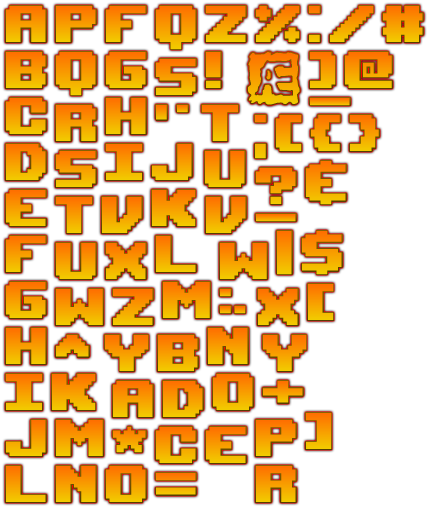
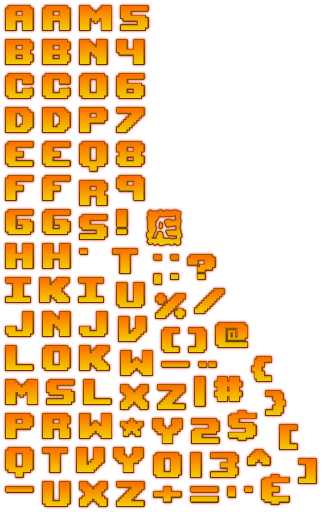
adding numbers to fonts

diff --git a/src/states/Play.js b/src/states/Play.js
@@ -11,6 +11,7 @@ class Play extends Phaser.State {
     create() {
         this.createTiles();
         this.createBoundaries();
+        this.createScoreboard();
         this.createLauncher();
         this.createStage();
         // this.startTimer();
@@ -46,6 +47,12 @@ class Play extends Phaser.State {
         // move boundary by => boundary.x += val;
     }
 
+    createScoreboard() {
+        this.score = 0;
+        this.scoreText = this.add.bitmapText(5, 11, 'upheaval', 'SCORE 000000000', 25);
+        this.scoreText.anchor.set(0, 0.5);
+    }
+
     createLauncher() {
         // polnareff
         this.polnareff = this.add.sprite(this.world.centerX - 75, CANVAS_HEIGHT - TILE_SIZE, 'polnareff', 0);
@@ -63,7 +70,6 @@ class Play extends Phaser.State {
         this.launcherWheel.anchor.set(0.5, 0.5);
         this.launcherWheel.width = 57;
         this.launcherWheel.height = 57;
-
 
         // platform
         this.launcherPlatform = this.add.sprite(this.world.centerX, CANVAS_HEIGHT, 'launcher-platform1');

diff --git a/src/states/Menu.js b/src/states/Menu.js
@@ -52,7 +52,7 @@ class Menu extends Phaser.State {
             let initialPosition = this.world.centerY + 93;
             return idx === 0 ? initialPosition : initialPosition + (38 * idx);
         });
-        this.polnareff = this.add.sprite(155, this.polnareffPosition[this.navigationIndex], 'polnareff', 0);
+        this.polnareff = this.add.sprite(150, this.polnareffPosition[this.navigationIndex], 'polnareff', 0);
         this.polnareff.scale.set(0.6, 0.6);
         this.polnareff.anchor.set(0.5, 0.5);
         this.polnareff.animations.add('bounce', [0,1], 2, true);
